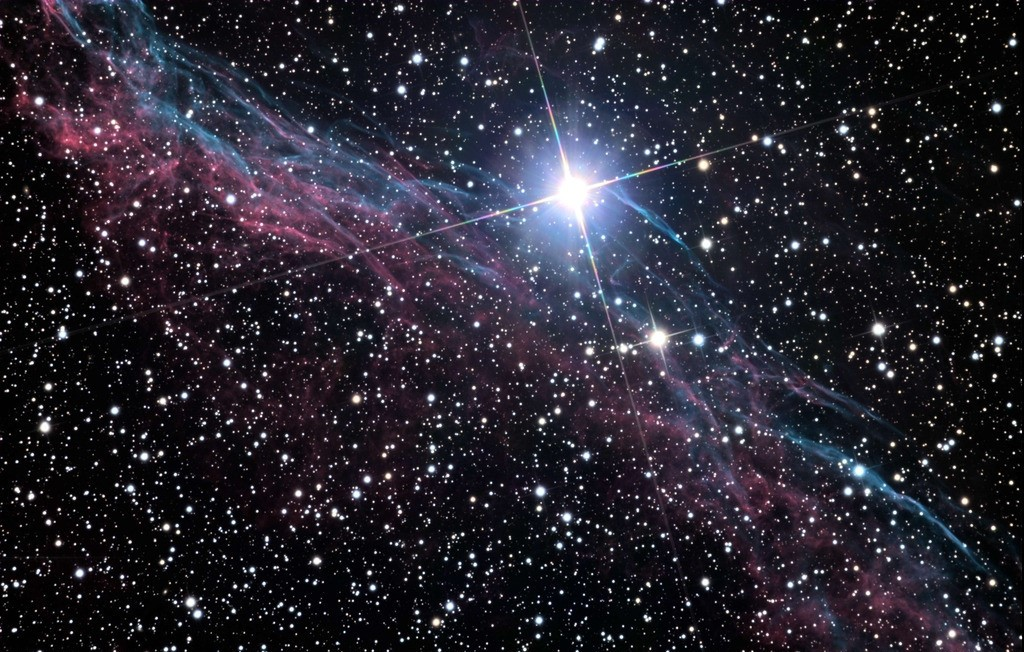
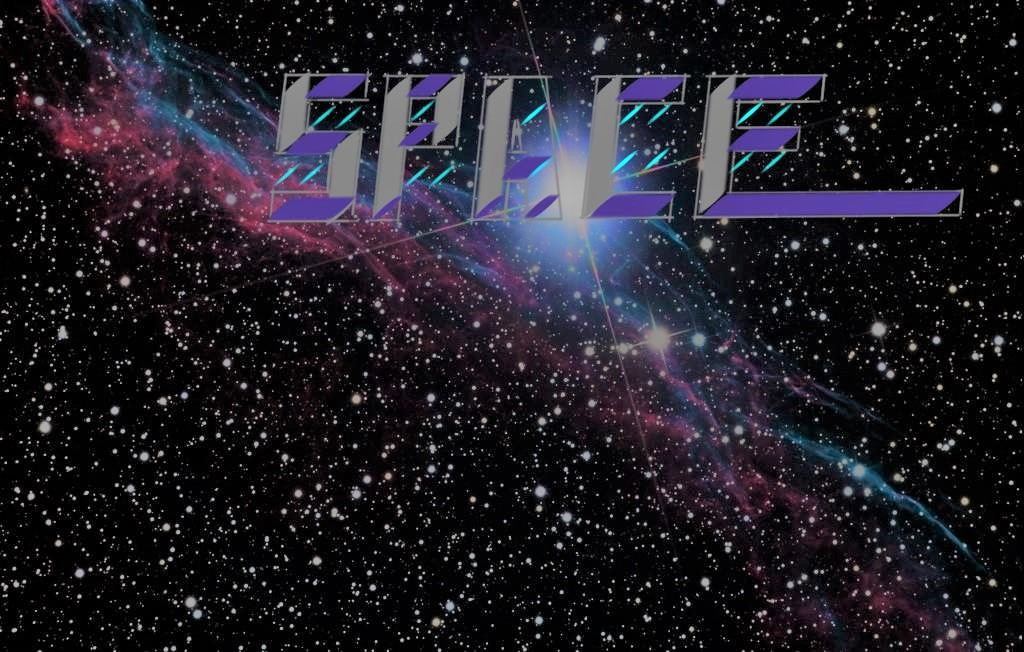
fantastic start scene!!!

diff --git a/src/space1/Frame.java b/src/space1/Frame.java
@@ -12,6 +12,7 @@ import javafx.scene.control.Menu;
 import javafx.scene.control.MenuBar;
 import javafx.scene.image.Image;
 import javafx.scene.image.ImageView;
+import javafx.scene.input.MouseButton;
 import javafx.scene.layout.Background;
 import javafx.scene.layout.BackgroundFill;
 import javafx.scene.layout.CornerRadii;
@@ -29,10 +30,15 @@ import static javafx.scene.paint.Color.BLACK;
  */
 public class Frame extends Application implements Runnable {
 
+    private static Stage stage;
     private static Scene scene;
+    private static Label startTitle;
     private static Scene scene2;
     private static Thread thread;
     private static GraphicsContext gc;
+
+    double opacity = 1;
+    double speedOpacity = 0.01;
 
     int x = 250;
     int y = 280;
@@ -51,21 +57,23 @@ public class Frame extends Application implements Runnable {
 
         scene = new Scene(stackPane,1025,561);
 
-        Stage stage = new Stage();
+        stage = new Stage();
         stage.setScene(scene);
         stage.setOnCloseRequest(event -> thread.stop());
 
-        Button screenBtn = new Button("", new ImageView(new Image(getClass().getResourceAsStream("..\\back.jpg"))));
+        Image image = new Image(getClass().getResourceAsStream("..\\back.jpg"));
+        ImageView imageView = new ImageView(image);
+        Button screenBtn = new Button("", new ImageView(image));
         screenBtn.setOnAction((ActionEvent e) -> {
             stage.setScene(scene2);
         });
         screenBtn.setDefaultButton(true);
 
-        Label startTitle = new Label("Click any where to start");
+        startTitle = new Label("Click any where to start");
         startTitle.setScaleX(1.5);
         startTitle.setScaleY(1.5);
         startTitle.setTranslateY(230);
-        startTitle.setTextFill(Color.color(0.7176, 1, 0.5294));
+        startTitle.setTextFill(Color.gray(1));
 
         ((StackPane) scene.getRoot()).getChildren().add(screenBtn);
         ((StackPane) scene.getRoot()).getChildren().add(startTitle);
@@ -103,13 +111,26 @@ public class Frame extends Application implements Runnable {
         canvas.setTranslateX(200);
         canvas.setTranslateY(0);
         canvas.setOnMouseDragged(me -> {
-            speedX = (me.getX() - x) / 20;
-            speedY = (me.getY() - 20 - y) / 20;
+            if (me.getButton() == MouseButton.PRIMARY) {
+                speedX = (me.getX() - 20 - x) / 20;
+                speedY = (me.getY() - 20 - y) / 20;
+            } else if (me.getButton() == MouseButton.SECONDARY) {
+                x = (int) (me.getX() - 20);
+                y = (int) (me.getY() - 20);
+                speedX = speedY = 0;
+            }
         });
         canvas.setOnMouseClicked(me -> {
-            speedX = (me.getX() - x) / 100;
-            speedY = (me.getY() - 20 - y) / 100;
+            if (me.getButton() == MouseButton.PRIMARY) {
+                speedX = (me.getX() - 20 - x) / 100;
+                speedY = (me.getY() - 20 - y) / 100;
+            } else if (me.getButton() == MouseButton.SECONDARY) {
+                x = (int) (me.getX() - 20);
+                y = (int) (me.getY() - 20);
+                speedX = speedY = 0;
+            }
         });
+
         gc = canvas.getGraphicsContext2D();
         gc.setFill(BLACK);
         gc.fillRect(0, 0, 825, 561);
@@ -139,11 +160,20 @@ public class Frame extends Application implements Runnable {
             } catch (InterruptedException e) {
                 e.printStackTrace();
             }
-            x += speedX;
-            y += speedY;
-//            speedX = 0;
-//            speedY = 0;
-            drawShapes(gc);
+            System.out.println("running");
+            if (stage.getScene() == scene2) {
+                x += speedX;
+                y += speedY;
+                drawShapes(gc);
+            } else if (stage.getScene() == scene) {
+                if (opacity >= 1) {
+                    speedOpacity = -0.01;
+                } else if (opacity <= 0.1) {
+                    speedOpacity = 0.01;
+                }
+                opacity += speedOpacity;
+                startTitle.setTextFill(Color.gray(opacity));
+            }
         }
     }
 }
